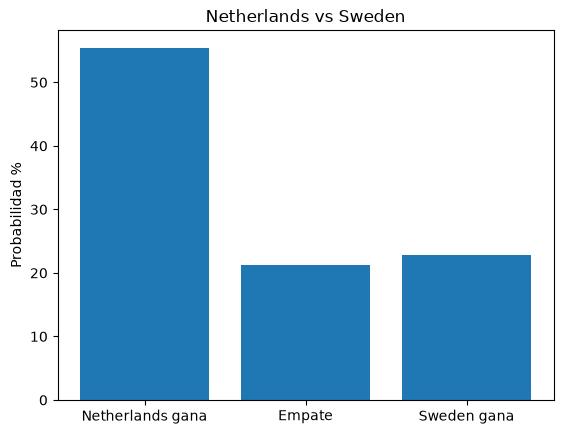
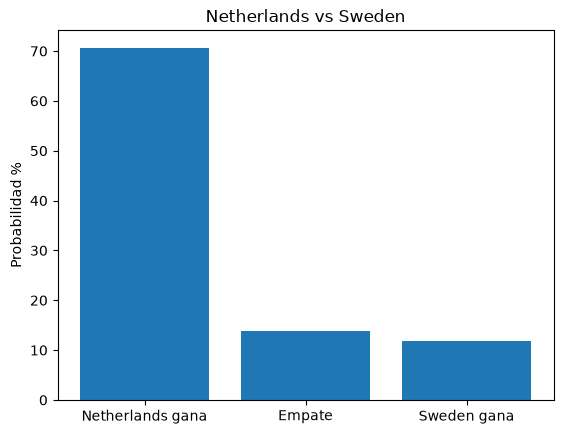
Filtrar partidos desde 2022

diff --git a/fit_dixon_coles.py b/fit_dixon_coles.py
@@ -3,7 +3,8 @@ from penaltyblog.models import DixonColesGoalModel
 
 url = "https://raw.githubusercontent.com/martj42/international_results/master/results.csv"
 df = pd.read_csv(url)
-
+df["date"] = pd.to_datetime(df["date"])
+df = df[df["date"] >= "2022-01-01"]
 
 # select and rename columns
 data = df[["home_team", "away_team", "home_score", "away_score"]].copy()